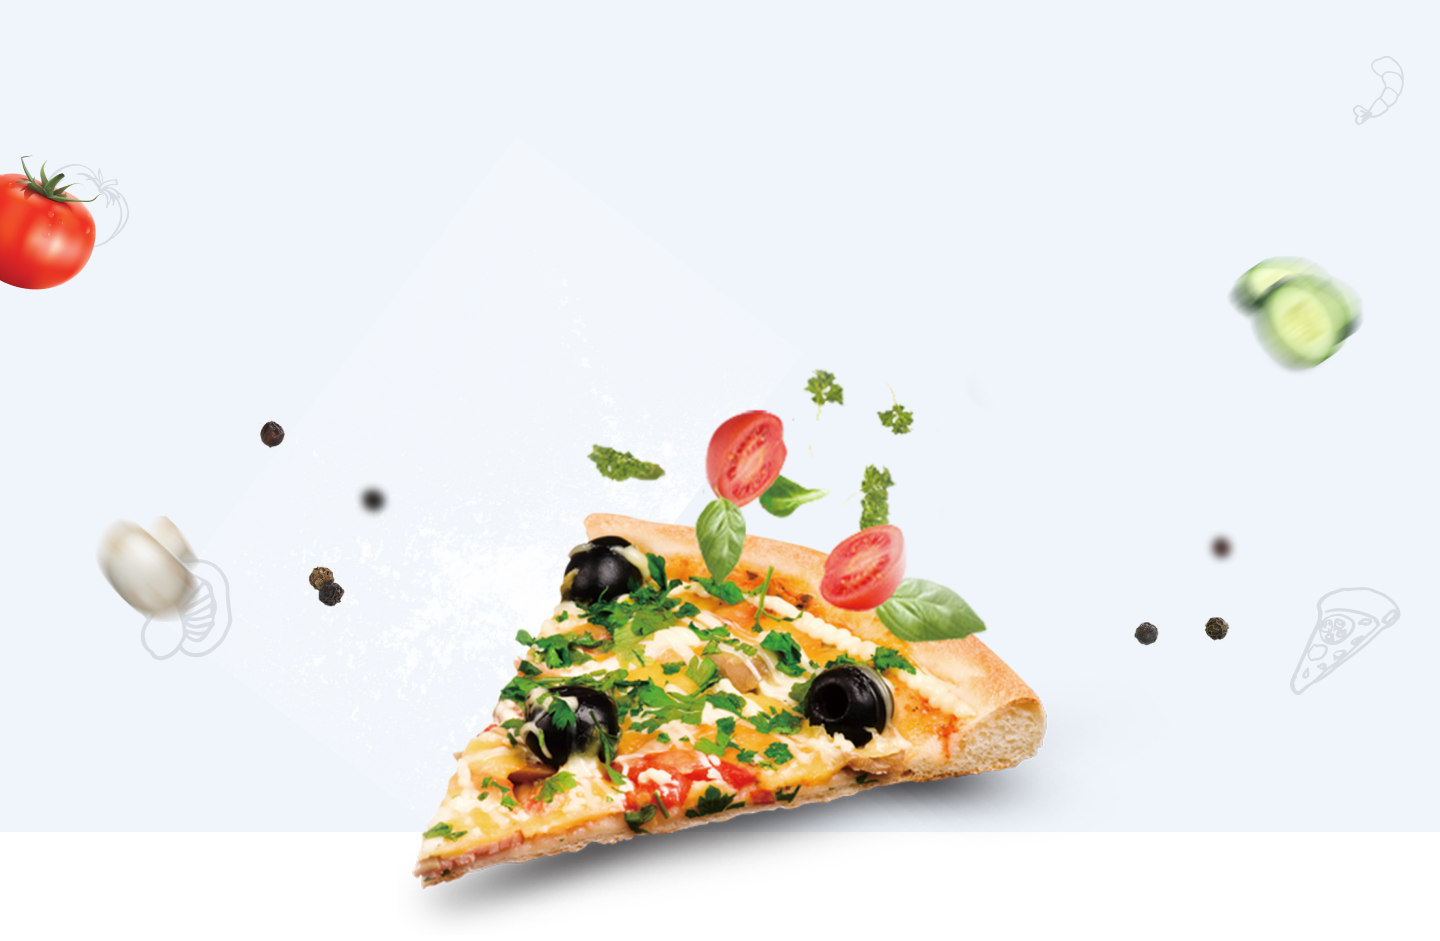
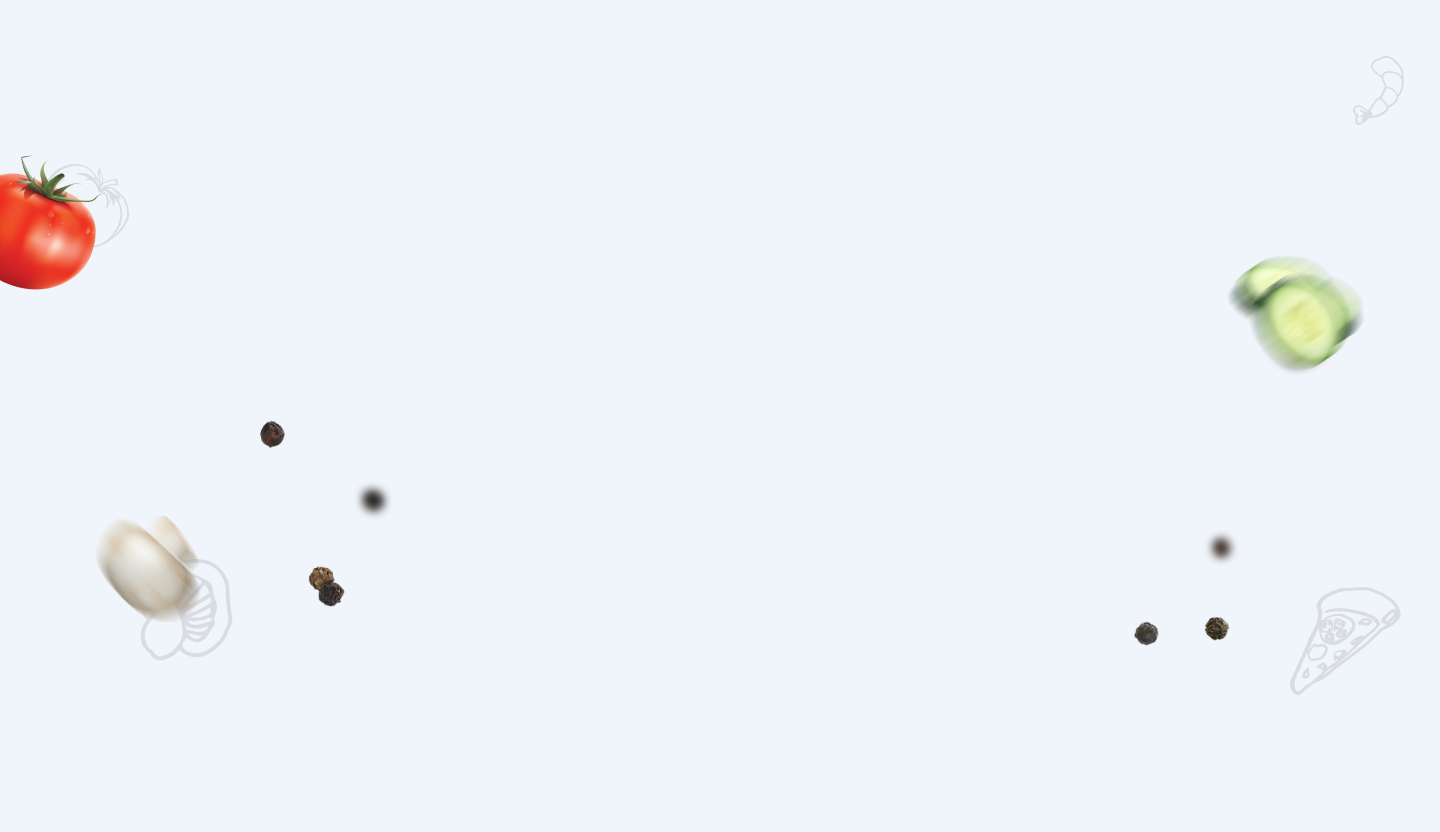
changed bucket computed logic; added load more; hanged image in hero

diff --git a/src/components/Shop.vue b/src/components/Shop.vue
@@ -3,13 +3,13 @@
 		<div class="container shop__container">
 			<div class="busket-wrapper">
 				<div class="busket">
-					<span class="busket__amount">=158$</span>
+					<span class="busket__amount">= {{ gerBusketSumm }} UAH</span>
 					<div class="busket__icon-wrap">
 						<svg class="busket__icon">
 							<use xlink:href="../assets/images/sprite.svg#buy"></use>
 						</svg>
 					</div>
-					<span class="busket__pcs">3</span>
+					<span class="busket__pcs">{{ gerBusketQty }}</span>
 				</div>
 			</div>
 			<Title elementClass="shop__title" :title="shopTitle" />
@@ -24,11 +24,11 @@
 				</li>
 			</ul>
 			<ul class="shop-list">
-				<li v-for="item in filteredProducts" :key="item.id">
-					<Product :product="item" />
+				<li v-for="item in getPaginatedProducts" :key="item.id">
+					<Product :product="item" @buy="addProductToBucket" />
 				</li>
 			</ul>
-			<button class="update">
+			<button @click="loadMore" class="update">
 				<svg class="update__icon">
 					<use xlink:href="../assets/images/sprite.svg#update"></use>
 				</svg>
@@ -53,10 +53,26 @@ export default {
 			shopTitle: 'Popular dishes',
 			allProducts: d.defaultData,
 			activeFilters: [],
+			busketData: [],
+			productsToShow: 8,
 		};
 	},
 	methods: {
-		//addProductToBucket(product) {},
+		addProductToBucket(product) {
+			let result = false;
+
+			this.busketData.forEach((element) => {
+				if (element.id == product.id) {
+					element.qty++;
+					result = true;
+					return;
+				}
+			});
+
+			if (result) return;
+
+			this.busketData.push({ ...product, qty: 1 });
+		},
 		filterToggle(event) {
 			let target = event.target.textContent.trim();
 			let targetObject = event.target;
@@ -70,6 +86,10 @@ export default {
 				this.activeFilters.push(target);
 				targetObject.classList.add('shop__filter--active');
 			}
+		},
+		loadMore() {
+			if (this.productsToShow > this.getPaginatedProducts) return;
+			this.productsToShow += 8;
 		},
 	},
 	computed: {
@@ -105,6 +125,19 @@ export default {
 			});
 
 			return filteredItems;
+		},
+		getPaginatedProducts: function () {
+			return this.filteredProducts.slice(0, this.productsToShow);
+		},
+
+		gerBusketSumm: function () {
+			return this.busketData.reduce(
+				(prev, curr) => prev + curr.qty * curr.price,
+				0
+			);
+		},
+		gerBusketQty: function () {
+			return this.busketData.reduce((prev, curr) => prev + curr.qty, 0);
 		},
 	},
 };
@@ -233,6 +266,7 @@ export default {
 	flex-direction: column;
 	align-items: center;
 	gap: 40px;
+	margin-bottom: 40px;
 }
 
 @media screen and (min-width: 600px) {
@@ -243,6 +277,7 @@ export default {
 		gap: 40px;
 		max-width: 560px;
 		margin: 0 auto;
+		margin-bottom: 66px;
 	}
 }
 
@@ -256,6 +291,23 @@ export default {
 	.shop-list {
 		grid-template-columns: 1fr 1fr 1fr 1fr;
 		max-width: 1160px;
+	}
+}
+
+.update {
+	width: 60px;
+	height: 60px;
+	margin: 0 auto;
+	display: flex;
+	align-items: center;
+	justify-content: center;
+	background: linear-gradient(287.74deg, #f58656 8.52%, #fe5626 92.72%);
+	box-shadow: 0px 4px 8px rgba(205, 169, 41, 0.26);
+	border-radius: 59px;
+
+	&__icon {
+		width: 25px;
+		height: 25px;
 	}
 }
 </style>

diff --git a/src/components/Busket.vue b/src/components/Busket.vue
@@ -1,0 +1,66 @@
+<template>
+	<div class="busket">
+		<span class="busket__amount">=158$</span>
+		<div class="busket__icon-wrap">
+			<svg class="busket__icon">
+				<use xlink:href="../assets/images/sprite.svg#buy"></use>
+			</svg>
+		</div>
+		<span class="busket__pcs">3</span>
+	</div>
+</template>
+
+<script>
+export default {
+	name: 'busket-item',
+};
+</script>
+
+<style lang="scss">
+.busket {
+	display: flex;
+	align-items: center;
+	position: relative;
+
+	&__amount {
+		display: inline-block;
+		padding: 10px 15px;
+		border-radius: 10px;
+		color: white;
+		font-weight: 600;
+		font-size: 16px;
+		line-height: 140%;
+		background-color: #3f3f3f;
+		margin-right: 10px;
+	}
+
+	&__icon-wrap {
+		display: flex;
+		align-items: center;
+		justify-content: center;
+		width: 80px;
+		height: 80px;
+		border-radius: 50%;
+		box-shadow: 0 0 20px 4px rgba(#000000, 0.3);
+	}
+
+	&__icon {
+		width: 36px;
+		height: 42px;
+	}
+
+	&__pcs {
+		display: flex;
+		align-items: center;
+		justify-content: center;
+		position: absolute;
+		right: 0;
+		bottom: 0;
+		width: 30px;
+		height: 30px;
+		border-radius: 50%;
+		background-color: #f58656;
+		color: white;
+	}
+}
+</style>

diff --git a/src/components/Header.vue b/src/components/Header.vue
@@ -29,6 +29,12 @@ export default {
 		Navigation,
 		Logo,
 	},
+	created() {
+		window.addEventListener('scroll', this.handleScroll);
+	},
+	destroyed() {
+		window.removeEventListener('scroll', this.handleScroll);
+	},
 	data() {
 		return {
 			workHours: {
@@ -49,6 +55,20 @@ export default {
 
 			return status;
 		},
+		handleScroll() {
+			const className = 'has-background';
+			const scrollTrigger = 50;
+			const header = document.querySelector('.header');
+
+			if (
+				window.scrollY >= scrollTrigger ||
+				window.pageYOffset >= scrollTrigger
+			) {
+				header.classList.add(className);
+			} else {
+				header.classList.remove(className);
+			}
+		},
 	},
 };
 </script>
@@ -60,6 +80,8 @@ export default {
 	right: 0;
 	left: 0;
 	background: transparent;
+	z-index: 1;
+	transition: background-color 0.3s ease;
 
 	&__container {
 		padding-top: 15px;
@@ -151,5 +173,9 @@ export default {
 			}
 		}
 	}
+}
+
+.has-background {
+	background: #f0f5fb;
 }
 </style>

diff --git a/src/components/Hero.vue b/src/components/Hero.vue
@@ -5,6 +5,9 @@
 			<p class="hero__description">
 				{{ content }}
 			</p>
+			<div class="hero__img-wrapper">
+				<img class="hero__img" src="../assets/images/piza-main.png" alt="" />
+			</div>
 		</div>
 	</section>
 </template>
@@ -29,11 +32,13 @@ export default {
 
 <style lang="scss">
 .hero {
+	position: relative;
 	background-image: url(../assets/images/hero-bg.png);
 	background-repeat: no-repeat;
 	background-position: top center;
 	background-size: cover;
-	min-height: 100vh;
+	height: calc(100vh - 130px);
+	margin-bottom: 130px;
 
 	&__container {
 		padding-top: calc(74px + 90px); //74 - header height
@@ -47,6 +52,19 @@ export default {
 		max-width: 621px;
 		text-align: center;
 		margin: 0 auto;
+	}
+
+	&__img-wrapper {
+		max-width: 667px;
+		width: 100%;
+		position: absolute;
+		right: 50%;
+		bottom: -100px;
+		transform: translateX(50%);
+	}
+
+	&__img {
+		width: 100%;
 	}
 }
 

diff --git a/src/components/Product.vue b/src/components/Product.vue
@@ -13,7 +13,7 @@
 		</div>
 		<span class="product__description">{{ product.compound }}</span>
 		<span class="product__price">{{ product.price }} UAH</span>
-		<button class="buy-btn product__buy-btn">
+		<button @click="buy" class="buy-btn product__buy-btn">
 			<svg class="buy-btn__icon">
 				<use xlink:href="../assets/images/sprite.svg#buy"></use>
 			</svg>
@@ -25,6 +25,11 @@
 export default {
 	name: 'product-item',
 	props: ['product'],
+	methods: {
+		buy() {
+			this.$emit('buy', this.product);
+		},
+	},
 };
 </script>
 
@@ -33,8 +38,7 @@ export default {
 	display: flex;
 	flex-direction: column;
 	align-items: center;
-	max-width: 260px;
-	width: 100%;
+	width: 260px;
 	height: 418px;
 	padding: 36px 15px 0 25px;
 	position: relative;
